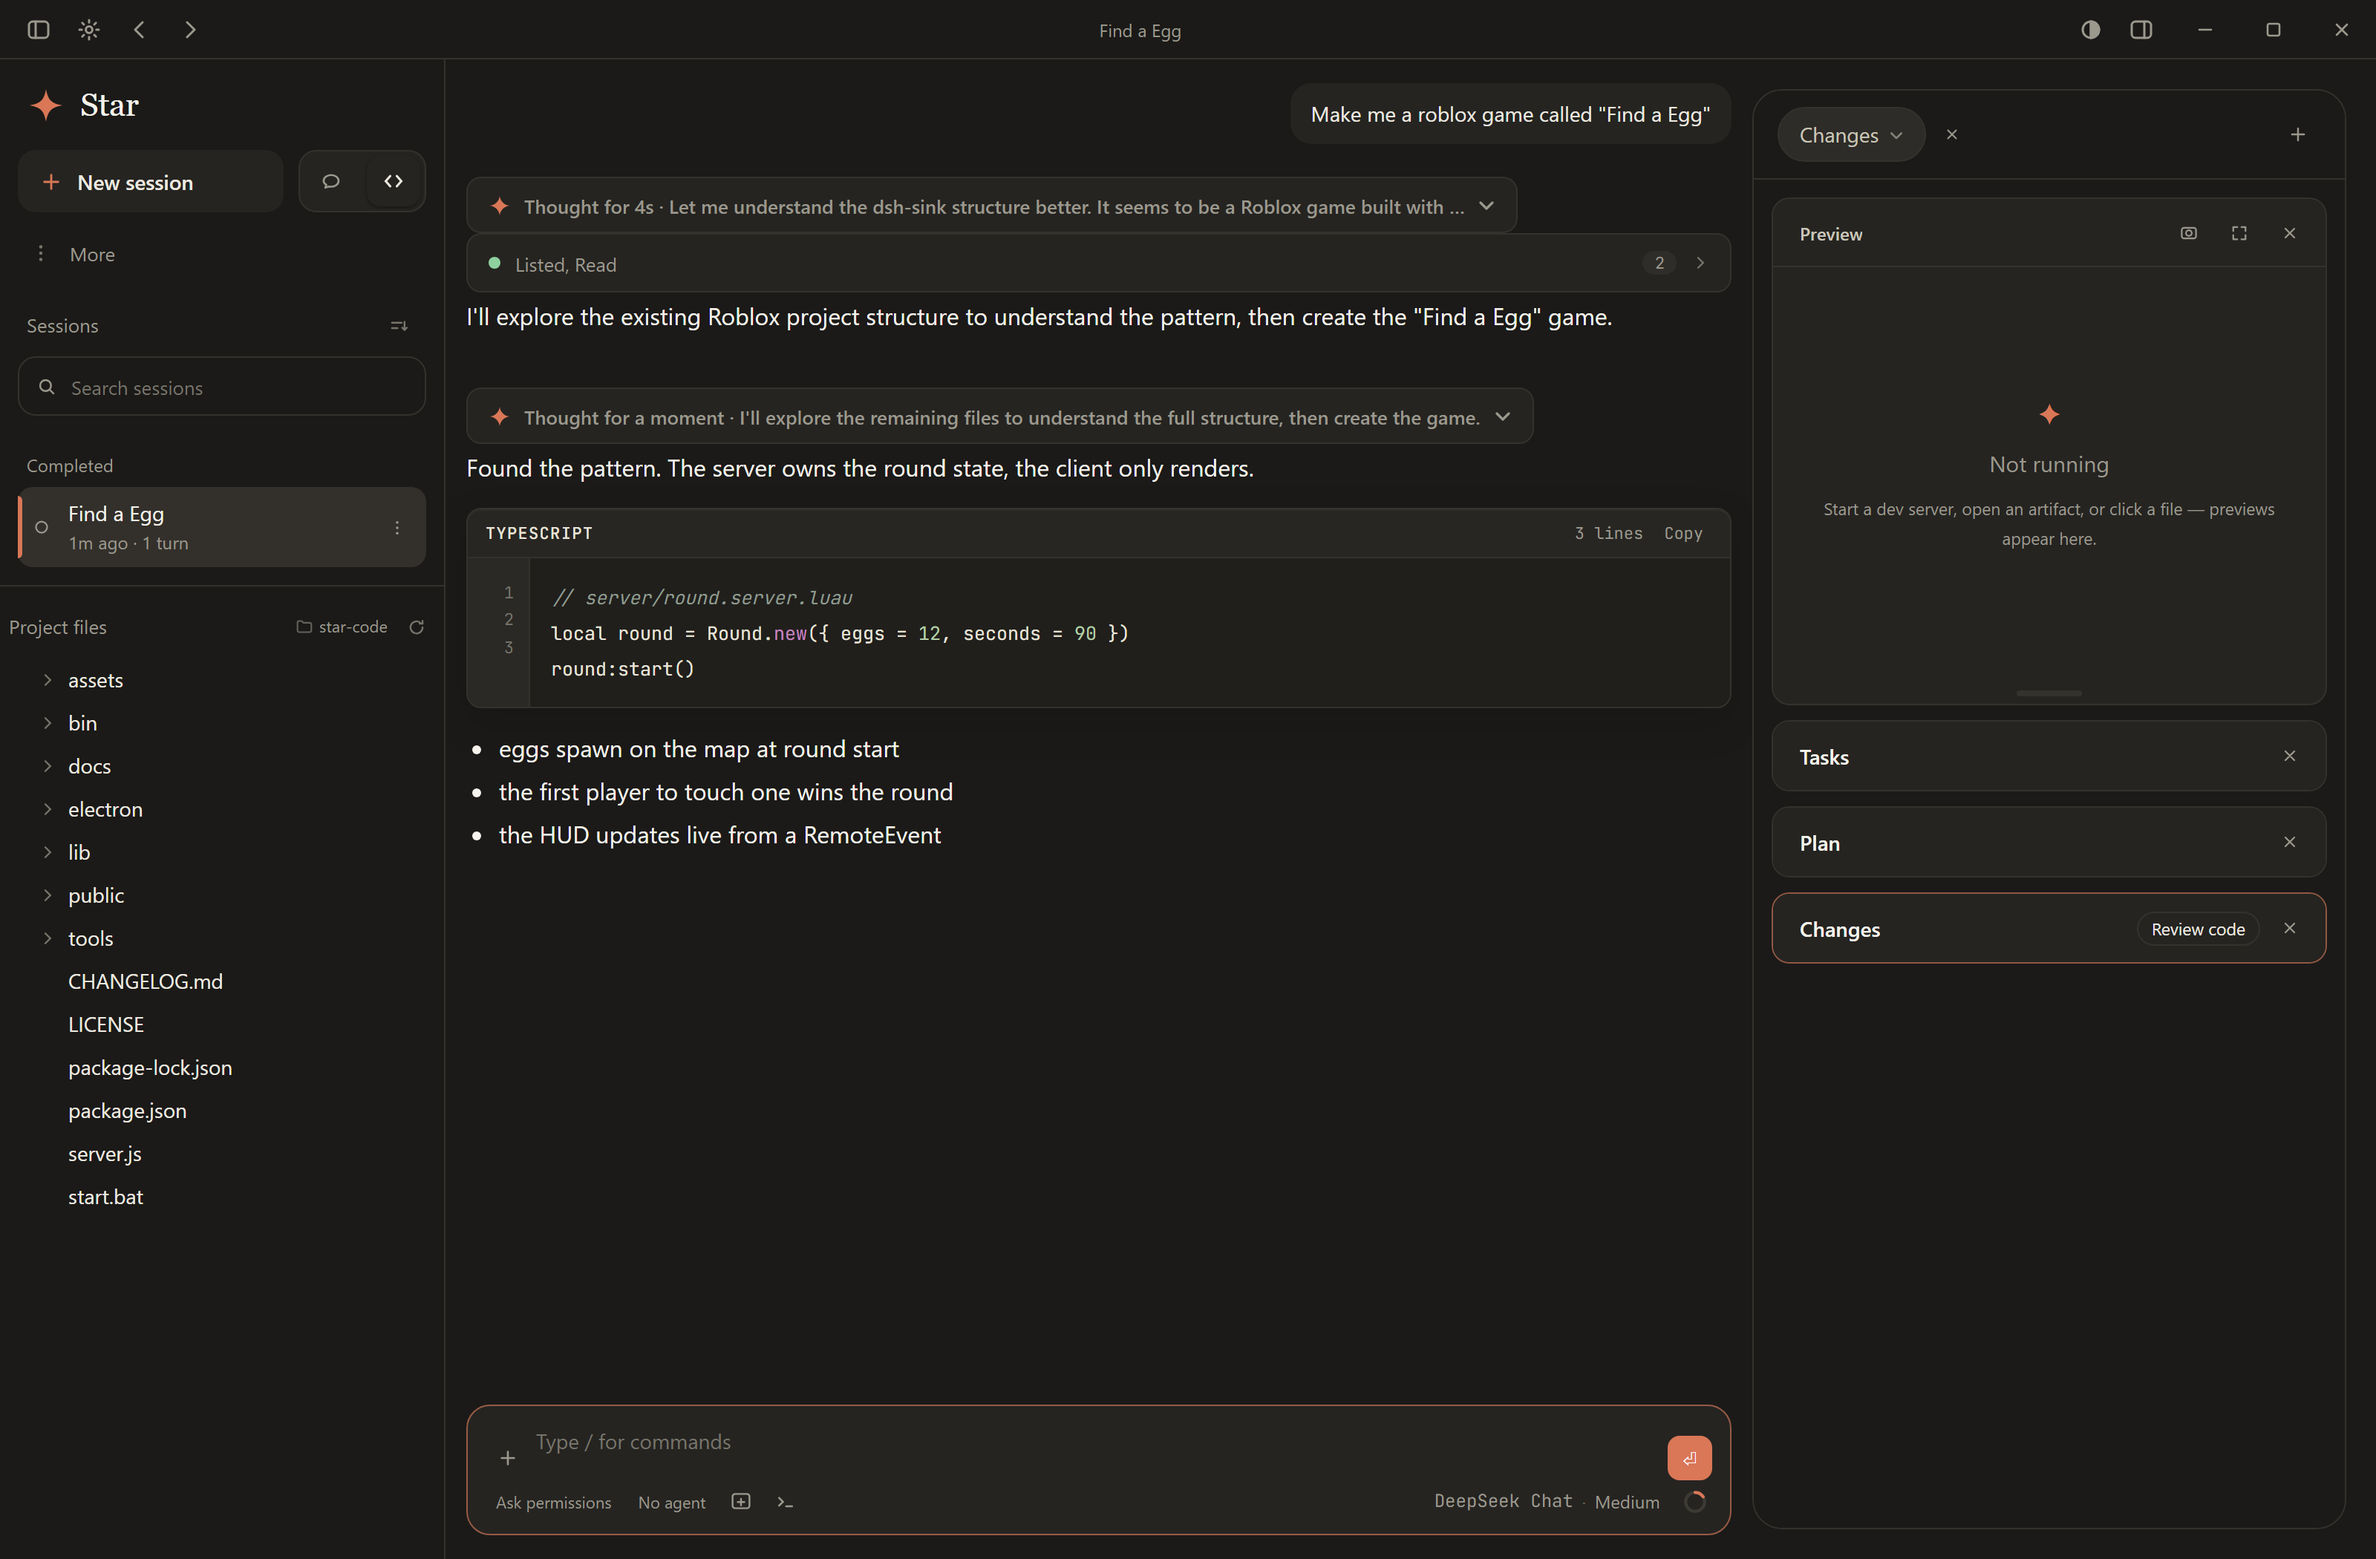
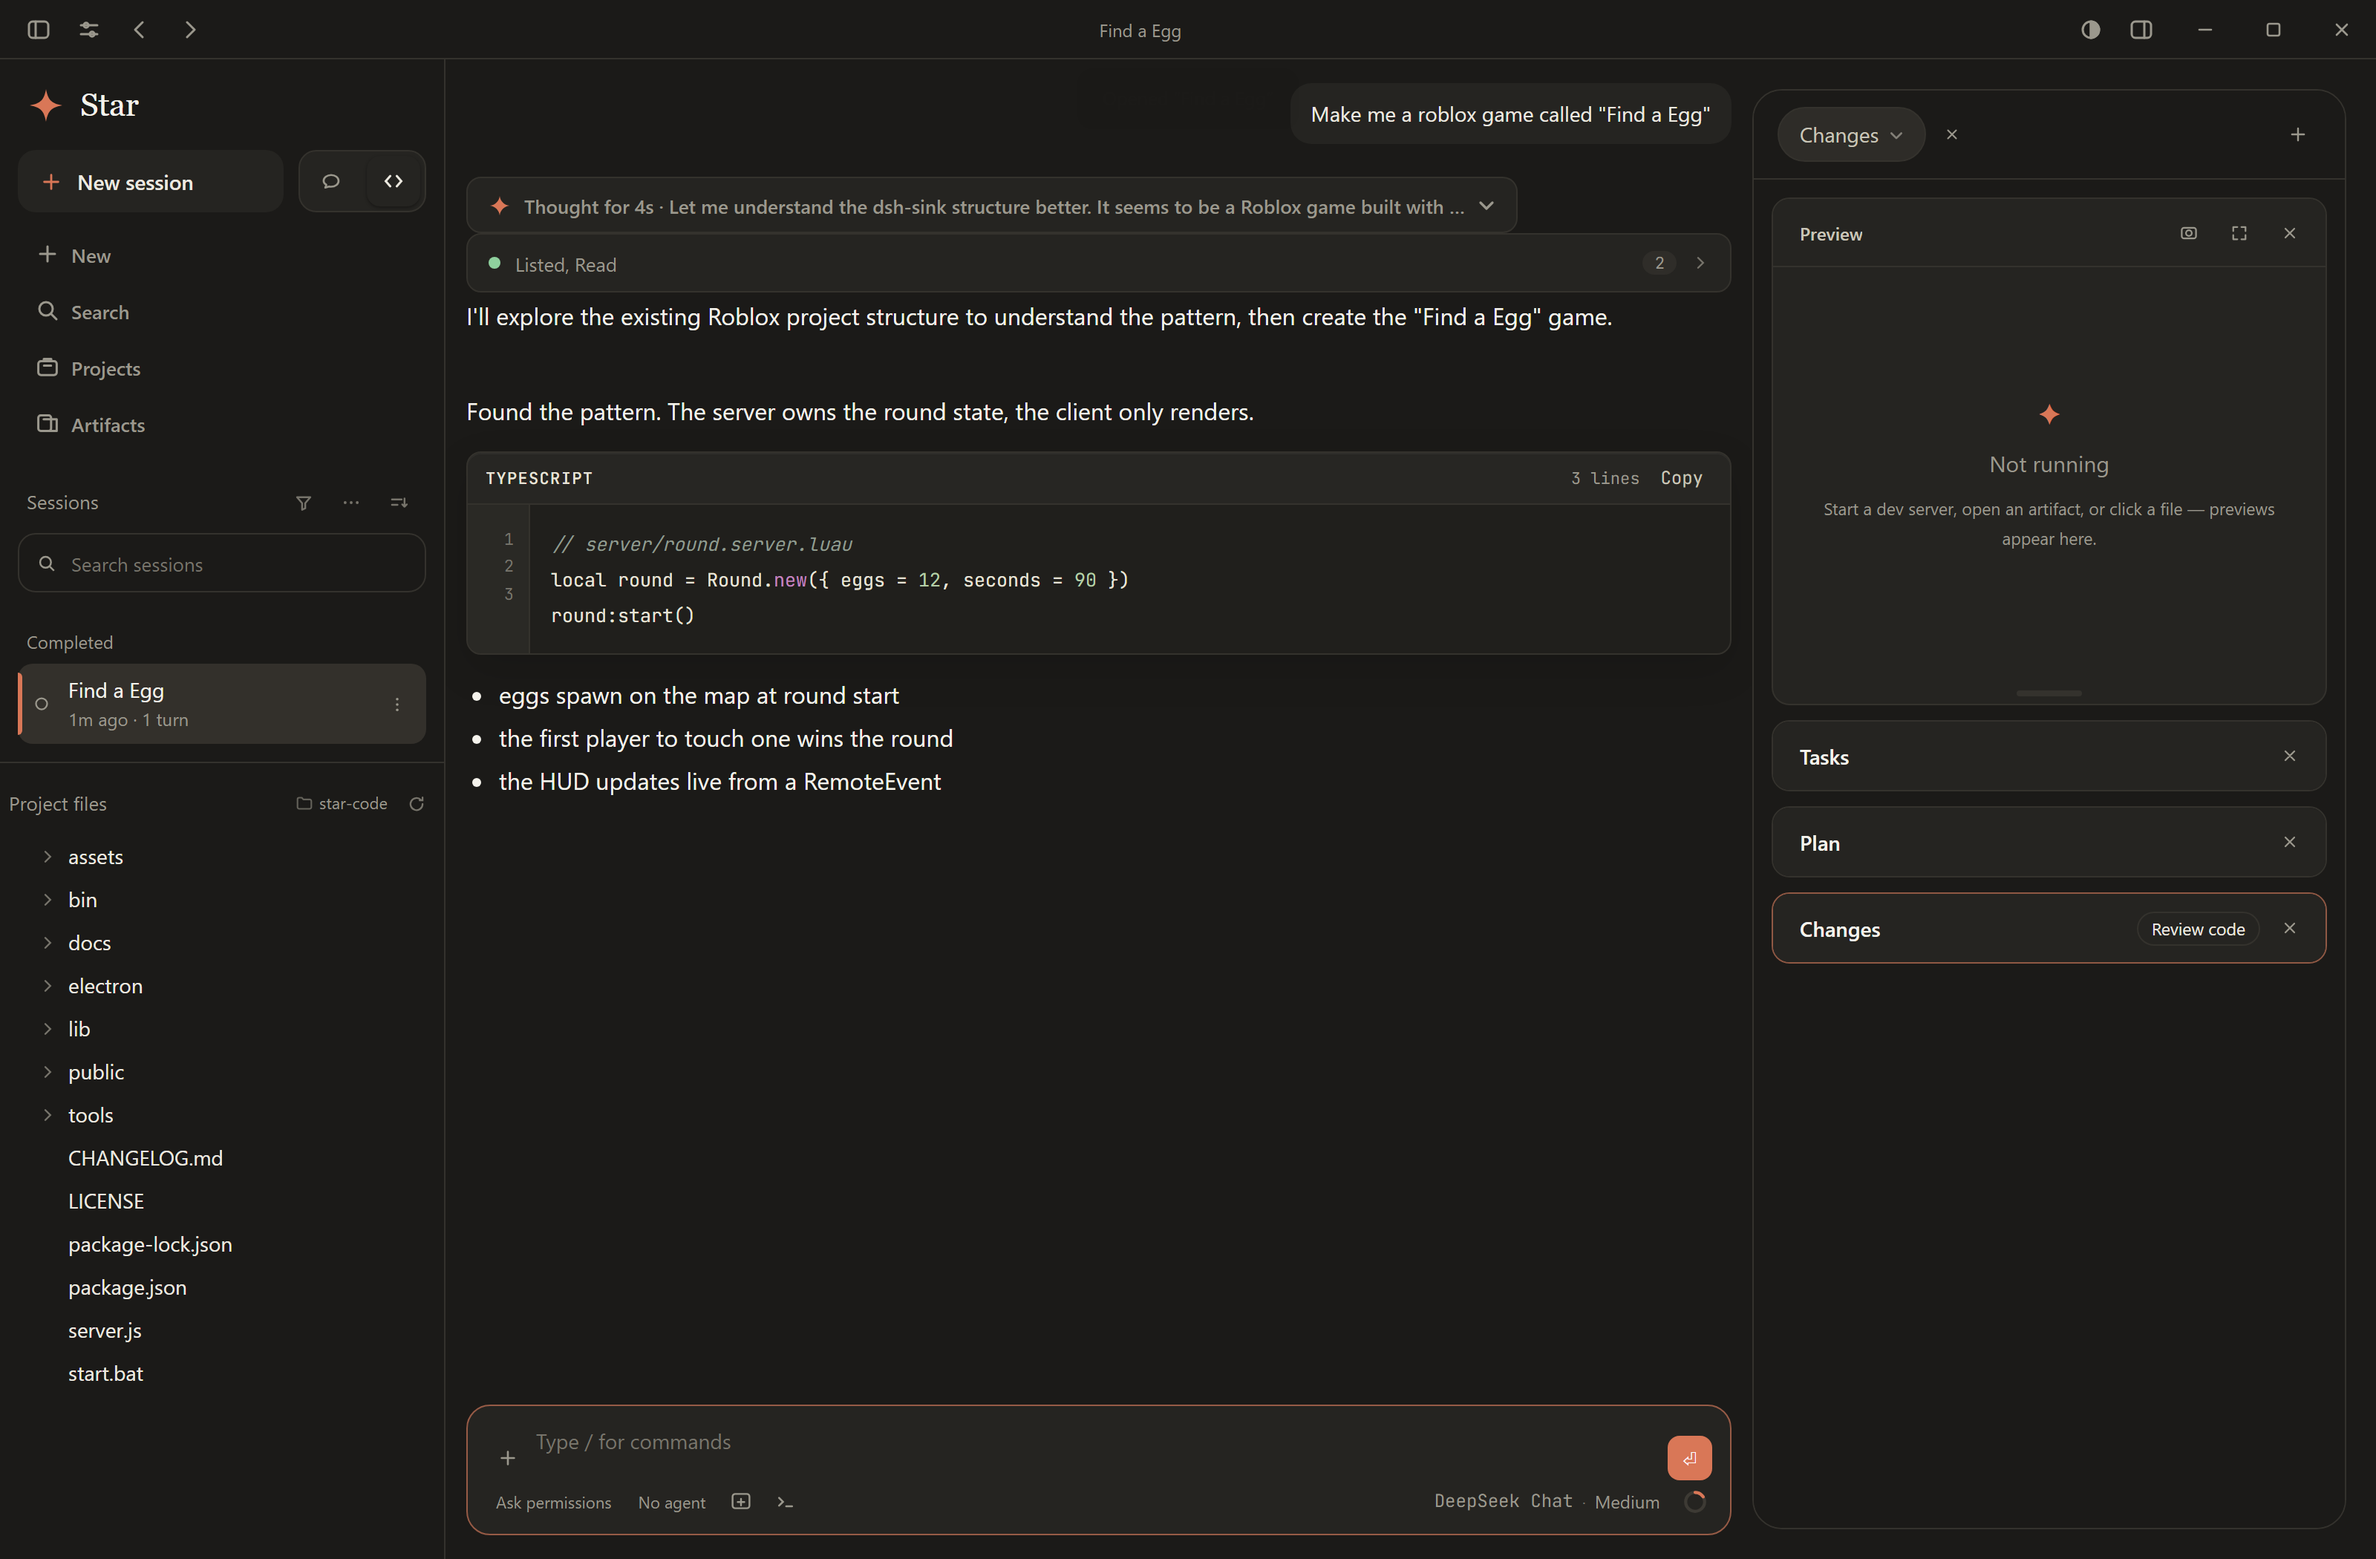
Release Star 1.24.0
Sidebar New/Search/Projects/Artifacts navigation, settings on Appearance, the question tool with freeform answers, Office previews, text-file editing, command palette, session filters, loading/spinner states, toast placement and motion/visual polish. Mirrors the new office module into the CLI and updates the docs screenshot and changelog.

diff --git a/CLI/lib/office.js b/CLI/lib/office.js
@@ -1,0 +1,250 @@
+// Zero-dependency Office document readers for the desktop preview.
+//
+// The desktop ships without a LibreOffice or Python sidecar, so this module
+// reads the OOXML packages directly: a small ZIP reader plus targeted XML
+// extraction for Word, Excel and PowerPoint. It is intentionally read-only:
+// previews never mutate the document.
+import fs from "node:fs";
+import path from "node:path";
+import zlib from "node:zlib";
+
+const MAX_ZIP_BYTES = 60 * 1024 * 1024;
+const MAX_UNZIPPED = 120 * 1024 * 1024;
+const MAX_ENTRIES = 6000;
+
+function u16(b, o) { return b.readUInt16LE(o); }
+function u32(b, o) { return b.readUInt32LE(o); }
+
+/** Read a ZIP archive into a filename -> Buffer map. */
+export function readZip(buf) {
+  if (!Buffer.isBuffer(buf) || buf.length < 22) throw new Error("not a ZIP file");
+  if (buf.length > MAX_ZIP_BYTES) throw new Error("document is too large to preview");
+  let eocd = -1;
+  for (let i = buf.length - 22; i >= Math.max(0, buf.length - 65557); i--) {
+    if (u32(buf, i) === 0x06054b50) { eocd = i; break; }
+  }
+  if (eocd < 0) throw new Error("not a ZIP file");
+  const count = u16(buf, eocd + 10);
+  const cdOff = u32(buf, eocd + 16);
+  if (count > MAX_ENTRIES) throw new Error("document has too many parts");
+  const out = new Map();
+  let total = 0;
+  let p = cdOff;
+  for (let i = 0; i < count; i++) {
+    if (p + 46 > buf.length || u32(buf, p) !== 0x02014b50) break;
+    const method = u16(buf, p + 10);
+    const csize = u32(buf, p + 20);
+    const usize = u32(buf, p + 24);
+    const nlen = u16(buf, p + 28);
+    const elen = u16(buf, p + 30);
+    const clen = u16(buf, p + 32);
+    const local = u32(buf, p + 42);
+    const name = buf.slice(p + 46, p + 46 + nlen).toString("utf8").replace(/\\/g, "/");
+    p += 46 + nlen + elen + clen;
+    if (!name || name.endsWith("/")) continue;
+    if (local + 30 > buf.length || u32(buf, local) !== 0x04034b50) continue;
+    const ln = u16(buf, local + 26), le = u16(buf, local + 28);
+    const start = local + 30 + ln + le;
+    const raw = buf.slice(start, start + csize);
+    let data;
+    if (method === 0) data = raw;
+    else if (method === 8) data = zlib.inflateRawSync(raw, { maxOutputLength: Math.max(1024, usize || MAX_UNZIPPED) });
+    else continue;
+    total += data.length;
+    if (total > MAX_UNZIPPED) throw new Error("document expands too large");
+    out.set(name, data);
+  }
+  return out;
+}
+
+function decode(s) {
+  return String(s || "")
+    .replace(/&lt;/g, "<").replace(/&gt;/g, ">")
+    .replace(/&quot;/g, '"').replace(/&apos;/g, "'")
+    .replace(/&#(\d+);/g, (_, n) => String.fromCodePoint(Number(n)))
+    .replace(/&#x([0-9a-f]+);/gi, (_, n) => String.fromCodePoint(parseInt(n, 16)))
+    .replace(/&amp;/g, "&");
+}
+
+function xmlText(xml) {
+  return decode(String(xml || "").replace(/<[^>]+>/g, ""));
+}
+
+function attr(xml, name) {
+  const m = new RegExp("\\b" + name + "=\"([^\"]*)\"").exec(xml);
+  return m ? decode(m[1]) : "";
+}
+
+/* -------------------------------- DOCX -------------------------------- */
+function docxParagraphs(xml) {
+  const blocks = [];
+  const pRe = /<w:p\b[\s\S]*?<\/w:p>/g;
+  let pm;
+  while ((pm = pRe.exec(xml))) {
+    const body = pm[0];
+    let text = "";
+    const tRe = /<w:t\b[^>]*>([\s\S]*?)<\/w:t>|<w:tab\b[^>]*\/>|<w:br\b[^>]*\/>/g;
+    let tm;
+    while ((tm = tRe.exec(body))) {
+      if (tm[0].startsWith("<w:tab")) text += "\t";
+      else if (tm[0].startsWith("<w:br")) text += "\n";
+      else text += decode(tm[1]);
+    }
+    if (!text.trim()) continue;
+    const style = attr(body, "w:val") || (/<w:pStyle\b[^>]*w:val="([^"]+)"/.exec(body)?.[1] || "");
+    blocks.push({ type: "p", text: text.trim(), style: style ? decode(style) : "" });
+  }
+  return blocks;
+}
+
+export function extractDocx(zip) {
+  const xml = zip.get("word/document.xml");
+  if (!xml) throw new Error("not a Word document");
+  const src = xml.toString("utf8");
+  const blocks = [];
+  let last = 0;
+  const tblRe = /<w:tbl\b[\s\S]*?<\/w:tbl>/g;
+  let tm;
+  while ((tm = tblRe.exec(src))) {
+    const before = src.slice(last, tm.index);
+    const ps = docxParagraphs(before);
+    for (const p of ps) blocks.push(p);
+    const rows = [];
+    const trRe = /<w:tr\b[\s\S]*?<\/w:tr>/g;
+    let rm;
+    while ((rm = trRe.exec(tm[0]))) {
+      const cells = [];
+      const tcRe = /<w:tc\b[\s\S]*?<\/w:tc>/g;
+      let cm;
+      while ((cm = tcRe.exec(rm[0]))) {
+        const t = docxParagraphs(cm[0]).map((p) => p.text).join(" ");
+        cells.push(t);
+      }
+      rows.push(cells);
+    }
+    if (rows.length) blocks.push({ type: "table", rows: rows.slice(0, 200).map((r) => r.slice(0, 30)) });
+    last = tm.index + tm[0].length;
+  }
+  for (const p of docxParagraphs(src.slice(last))) blocks.push(p);
+  return { type: "docx", blocks: blocks.slice(0, 400) };
+}
+
+/* -------------------------------- XLSX -------------------------------- */
+function xlsxShared(zip) {
+  const xml = zip.get("xl/sharedStrings.xml");
+  if (!xml) return [];
+  const src = xml.toString("utf8");
+  const out = [];
+  const siRe = /<si\b[\s\S]*?<\/si>/g;
+  let m;
+  while ((m = siRe.exec(src))) out.push(xmlText(m[0]));
+  return out;
+}
+
+function cellValue(cell, shared) {
+  const t = attr(cell, "t");
+  const v = /<v\b[^>]*>([\s\S]*?)<\/v>/.exec(cell);
+  if (t === "s") return shared[Number(v?.[1])] ?? "";
+  if (t === "inlineStr") return xmlText(cell);
+  if (t === "b") return v && v[1] === "1" ? "TRUE" : "FALSE";
+  return v ? decode(v[1]) : "";
+}
+
+function colNumber(ref) {
+  const letters = String(ref || "").replace(/\d+/g, "").toUpperCase();
+  let n = 0;
+  for (const ch of letters) n = n * 26 + (ch.charCodeAt(0) - 64);
+  return n > 0 ? n - 1 : 0;
+}
+
+export function extractXlsx(zip) {
+  const wb = zip.get("xl/workbook.xml");
+  const rels = zip.get("xl/_rels/workbook.xml.rels");
+  if (!wb) throw new Error("not an Excel workbook");
+  const shared = xlsxShared(zip);
+  const relMap = new Map();
+  if (rels) {
+    const rsrc = rels.toString("utf8");
+    const rRe = /<Relationship\b[^>]*>/g;
+    let rm;
+    while ((rm = rRe.exec(rsrc))) {
+      relMap.set(attr(rm[0], "Id"), attr(rm[0], "Target"));
+    }
+  }
+  const sheets = [];
+  const sheetRe = /<sheet\b[^>]*\/?>/g;
+  const src = wb.toString("utf8");
+  let sm;
+  while ((sm = sheetRe.exec(src))) {
+    const id = attr(sm[0], "r:id");
+    const name = attr(sm[0], "name");
+    let target = relMap.get(id) || "";
+    target = target.replace(/^\/?xl\//, "").replace(/^\.\//, "");
+    const file = ("xl/" + target).replace(/\/\.\//g, "/");
+    const xml = zip.get(file) || zip.get("xl/worksheets/sheet" + (sheets.length + 1) + ".xml");
+    if (!xml) continue;
+    const rows = [];
+    const rowRe = /<row\b[\s\S]*?<\/row>/g;
+    let rm;
+    while ((rm = rowRe.exec(xml.toString("utf8")))) {
+      const cells = [];
+      const cRe = /<c\b[\s\S]*?<\/c>/g;
+      let cm;
+      while ((cm = cRe.exec(rm[0]))) {
+        const ref = attr(cm[0], "r");
+        const ci = colNumber(ref);
+        while (cells.length < ci) cells.push({ value: "" });
+        cells.push({ value: cellValue(cm[0], shared) });
+      }
+      if (cells.length) rows.push(cells);
+    }
+    sheets.push({ name: name || ("Sheet " + (sheets.length + 1)), rows: rows.slice(0, 300) });
+    if (sheets.length >= 4) break;
+  }
+  return { type: "xlsx", sheets };
+}
+
+/* -------------------------------- PPTX -------------------------------- */
+export function extractPptx(zip) {
+  const names = [...zip.keys()]
+    .filter((n) => /^ppt\/slides\/slide\d+\.xml$/.test(n))
+    .sort((a, b) => Number(a.match(/\d+/)[0]) - Number(b.match(/\d+/)[0]));
+  if (!names.length) throw new Error("not a PowerPoint presentation");
+  const slides = names.slice(0, 60).map((name, i) => {
+    const src = zip.get(name).toString("utf8");
+    const paras = [];
+    const pRe = /<a:p\b[\s\S]*?<\/a:p>/g;
+    let pm;
+    while ((pm = pRe.exec(src))) {
+      let text = "";
+      const tRe = /<a:t\b[^>]*>([\s\S]*?)<\/a:t>/g;
+      let tm;
+      while ((tm = tRe.exec(pm[0]))) text += decode(tm[1]);
+      if (text.trim()) paras.push(text.trim());
+    }
+    return { index: i + 1, paragraphs: paras };
+  });
+  return { type: "pptx", slides };
+}
+
+/* -------------------------------- API --------------------------------- */
+const OFFICE_EXT = new Set([".docx", ".xlsx", ".pptx"]);
+const PDF_EXT = new Set([".pdf"]);
+
+export function officeKind(ext) {
+  ext = String(ext || "").toLowerCase();
+  if (OFFICE_EXT.has(ext)) return "office";
+  if (PDF_EXT.has(ext)) return "pdf";
+  return "";
+}
+
+export async function extractOffice(file, ext) {
+  const st = await fs.promises.stat(file);
+  if (st.size > MAX_ZIP_BYTES) throw new Error("document is too large to preview");
+  const zip = readZip(await fs.promises.readFile(file));
+  ext = String(ext || path.extname(file)).toLowerCase();
+  const out = ext === ".docx" ? extractDocx(zip) : ext === ".xlsx" ? extractXlsx(zip) : extractPptx(zip);
+  out.name = path.basename(file);
+  out.size = st.size;
+  return out;
+}

diff --git a/desktop/CHANGELOG.md b/desktop/CHANGELOG.md
@@ -1,5 +1,17 @@
 # What's new in Star
 
+## 1.24.0 — 2026-11-04
+- **New sidebar navigation.** The single More row is now **New / Search / Projects / Artifacts**, with the reference 36 px rows, currentColor icons, hover/active fills and keyboard focus. Projects expands and focuses the tree; Artifacts opens the activity panel at the artifacts section. The old menu actions live in a compact `⋯` menu next to the Sessions header.
+- **Settings opens Appearance.** The title-bar sliders button now goes straight to Settings → Appearance instead of reopening Providers.
+- **Question tool.** `question` is now the preferred alias for `ask_user`, with IDs, required/skip flags, multi-select, and a freeform “Or type your own answer…” field. Answers are persisted, replayed, and shown as a summary.
+- **Better tool cards.** Tool rows show elapsed time, long arguments get tooltips, and completed output can be copied from the row.
+- **Office previews.** Word (`.docx`), Excel (`.xlsx`) and PowerPoint (`.pptx`) files render in the Preview pane without a sidecar: headings and tables, workbook tabs and cell grids, and slide text. PDFs open in the built-in viewer. The reader is a zero-dependency OOXML/ZIP implementation with size, entry and expansion limits.
+- **File editor.** Text files in the preview can be edited and saved with Ctrl/Cmd+S, Cancel and tab insertion; the save route stays inside the project root and caps files at 2 MB.
+- **Command palette.** Cmd/Ctrl+K searches commands, sessions and files with arrow/Enter/Escape navigation.
+- **Session filters.** Filter to Working / Needs input / Completed or group sessions by project; choices persist.
+- **Loading and motion.** A boot splash and spinner-backed session/file loading states replace blank areas, with static reduced-motion fallbacks. Toasts moved below the title bar so they no longer cover the composer. Added hover/press motion to sessions and navigation, and card/slide entrances.
+- **Visual fixes.** Long project paths and deep tree nesting no longer overflow; search-clear targets, attachment rows, code-copy contrast, thinking-pill truncation, pane-title overflow, unread-dot placement and light-theme muted contrast are fixed.
+
 ## 1.23.4 — 2026-11-04
 - **Sidebar cleanup.** The brand row is just the coral star and serif "Star" again; the working-folder selector moved into the Project files header, where it sits with the refresh button. The New session button and mode switch now share the same 42 px height, More uses the reference spacing, the active session's coral bar is visible inside the row, search text is 13 px, the tree uses the reference 14 px / 5 px rows, and the section header buttons are proper 26 px icon buttons.
 
